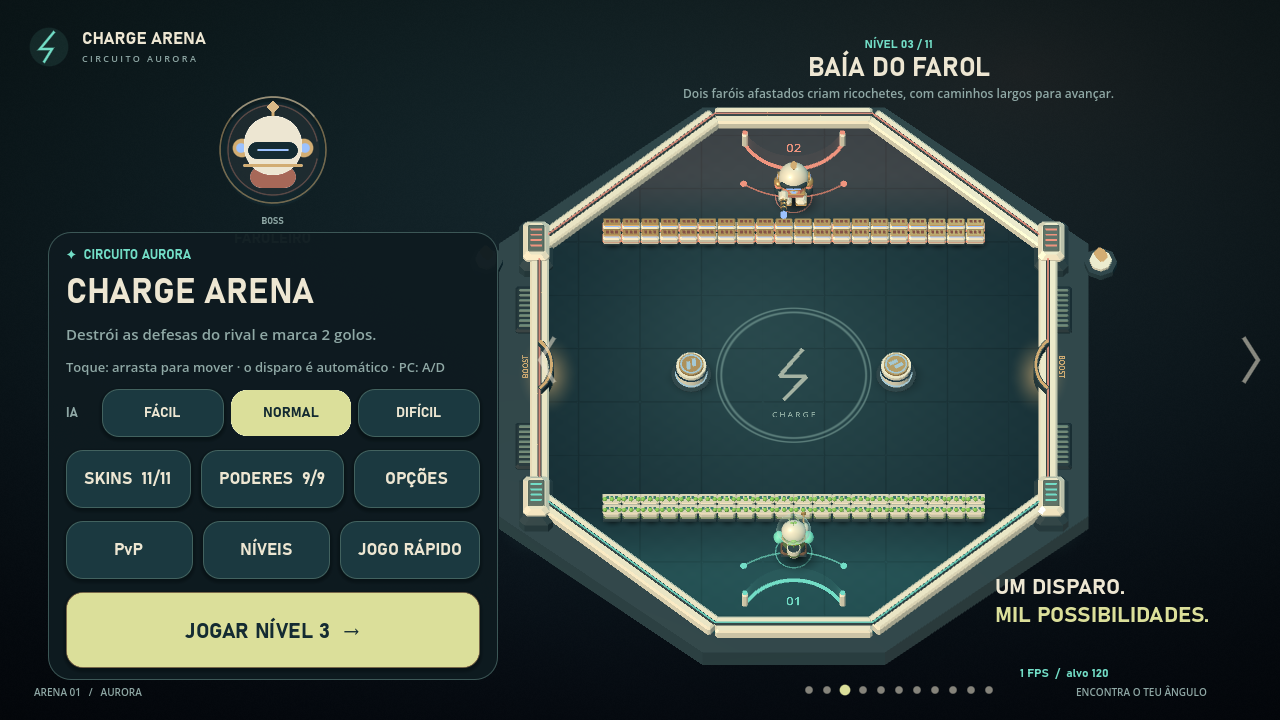
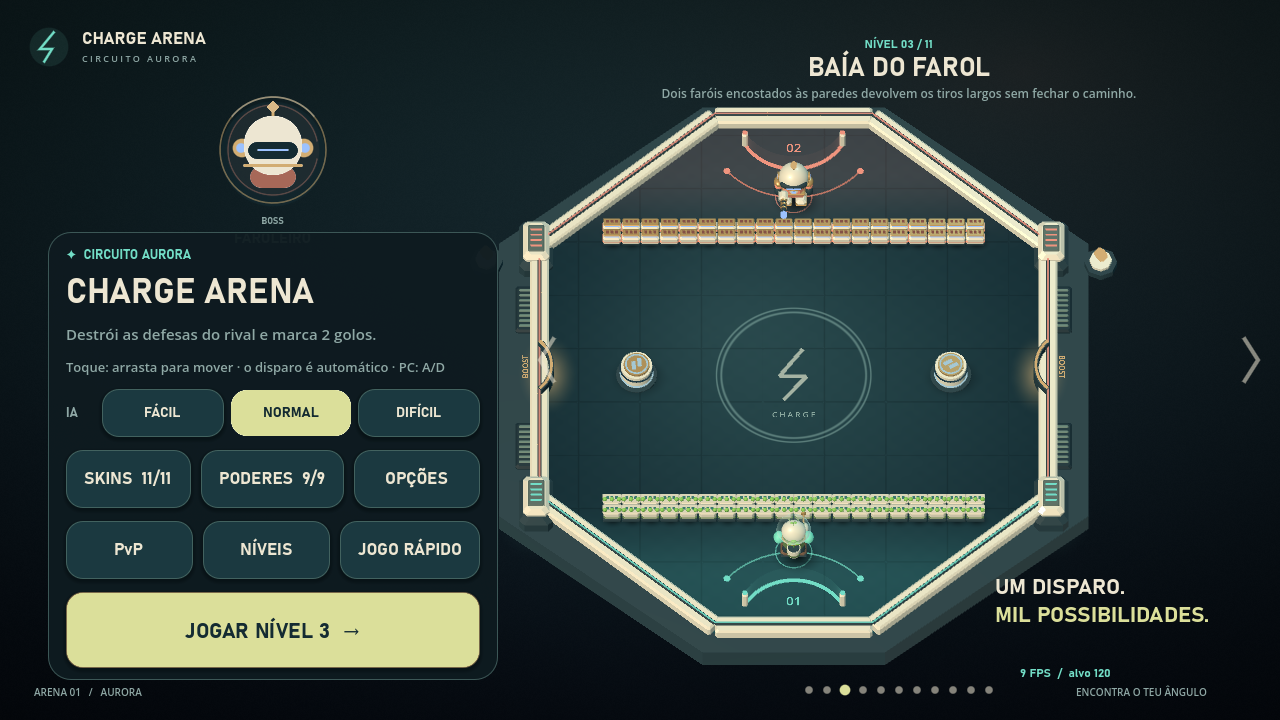
feat: mapas sem obstáculos no meio, chuva que acerta e arco maior
Mapas: os onze níveis foram reconstruídos. Nenhum obstáculo fica na rota
central — passaram todos para junto das paredes e dos cantos — e saíram as
barreiras a meio campo e os monólitos no centro. Cada nível tem agora a sua
própria combinação de contorno e muralha, e o nível 10 estreia o estádio
retangular do Coliseu na campanha. Medido ângulo a ângulo, quantos tiros
chegam a um tijolo: nível 9 passou de 25 em 61 para 51, o 6 de 45 para 60, o 4
de 38 para 50. A referência é 50, que é o que uma arena sem obstáculo nenhum
deixa passar.

O esquema de tijolos do Coliseu tem 48 por equipa e a campanha assenta em 40,
por isso o nível 10 leva o formato mas a muralha normal.

Meteoros e trovoada caíam ao acaso sobre a metade do rival e acertavam quase
sempre em chão vazio. Cada queda passa a escolher um tijolo de pé e a cair-lhe
em cima, com dispersão só para parecer chuva. O dano saltou para 70, demasiado,
por isso os raios de impacto apertaram: meteoros 38 e trovoada 43, abaixo dos
51 do raio de sol e acima dos 26 da singularidade.

O arco do piloto vai de 0,60 a 0,85 rad. É o máximo geométrico: a 0,95 o boneco
já roça a parede do hexágono, e a 0,85 sobra 0,51 contra um raio de 0,43.
Alcança x=1,95 em vez de 1,47 e os aceleradores laterais passam a estar ao
alcance de 11 ângulos em vez de 5. A varredura da IA passa a seguir o arco em
vez de um passo fixo que só cobria ±0,6.

O mapa do nível 2 chamava-se "aurora", o mesmo id do mapa de jogo rápido;
passou a "oficina".
[…]

diff --git a/README.md b/README.md
@@ -238,6 +238,8 @@ godot --headless --path . --script res://tests/test_network.gd -- --host
 godot --headless --path . --script res://tests/test_network.gd -- --client
 ```
 
+Os obstáculos de cada mapa vivem junto às paredes e aos cantos, nunca na rota central: servem para ricochete, não para tapar. Medido ângulo a ângulo, todos os níveis deixam agora passar tanto ou quase tanto como uma arena vazia. O arco do piloto vai até 0,85 rad — o máximo antes de o boneco roçar a parede do hexágono —, o que põe os aceleradores laterais ao alcance de 11 ângulos em vez de 5.
+
 ## Ficheiros
 
 - `scripts/arena_rules.gd`: movimento, tiros, colisões contínuas, paralisia, tijolos, golos e IA.
